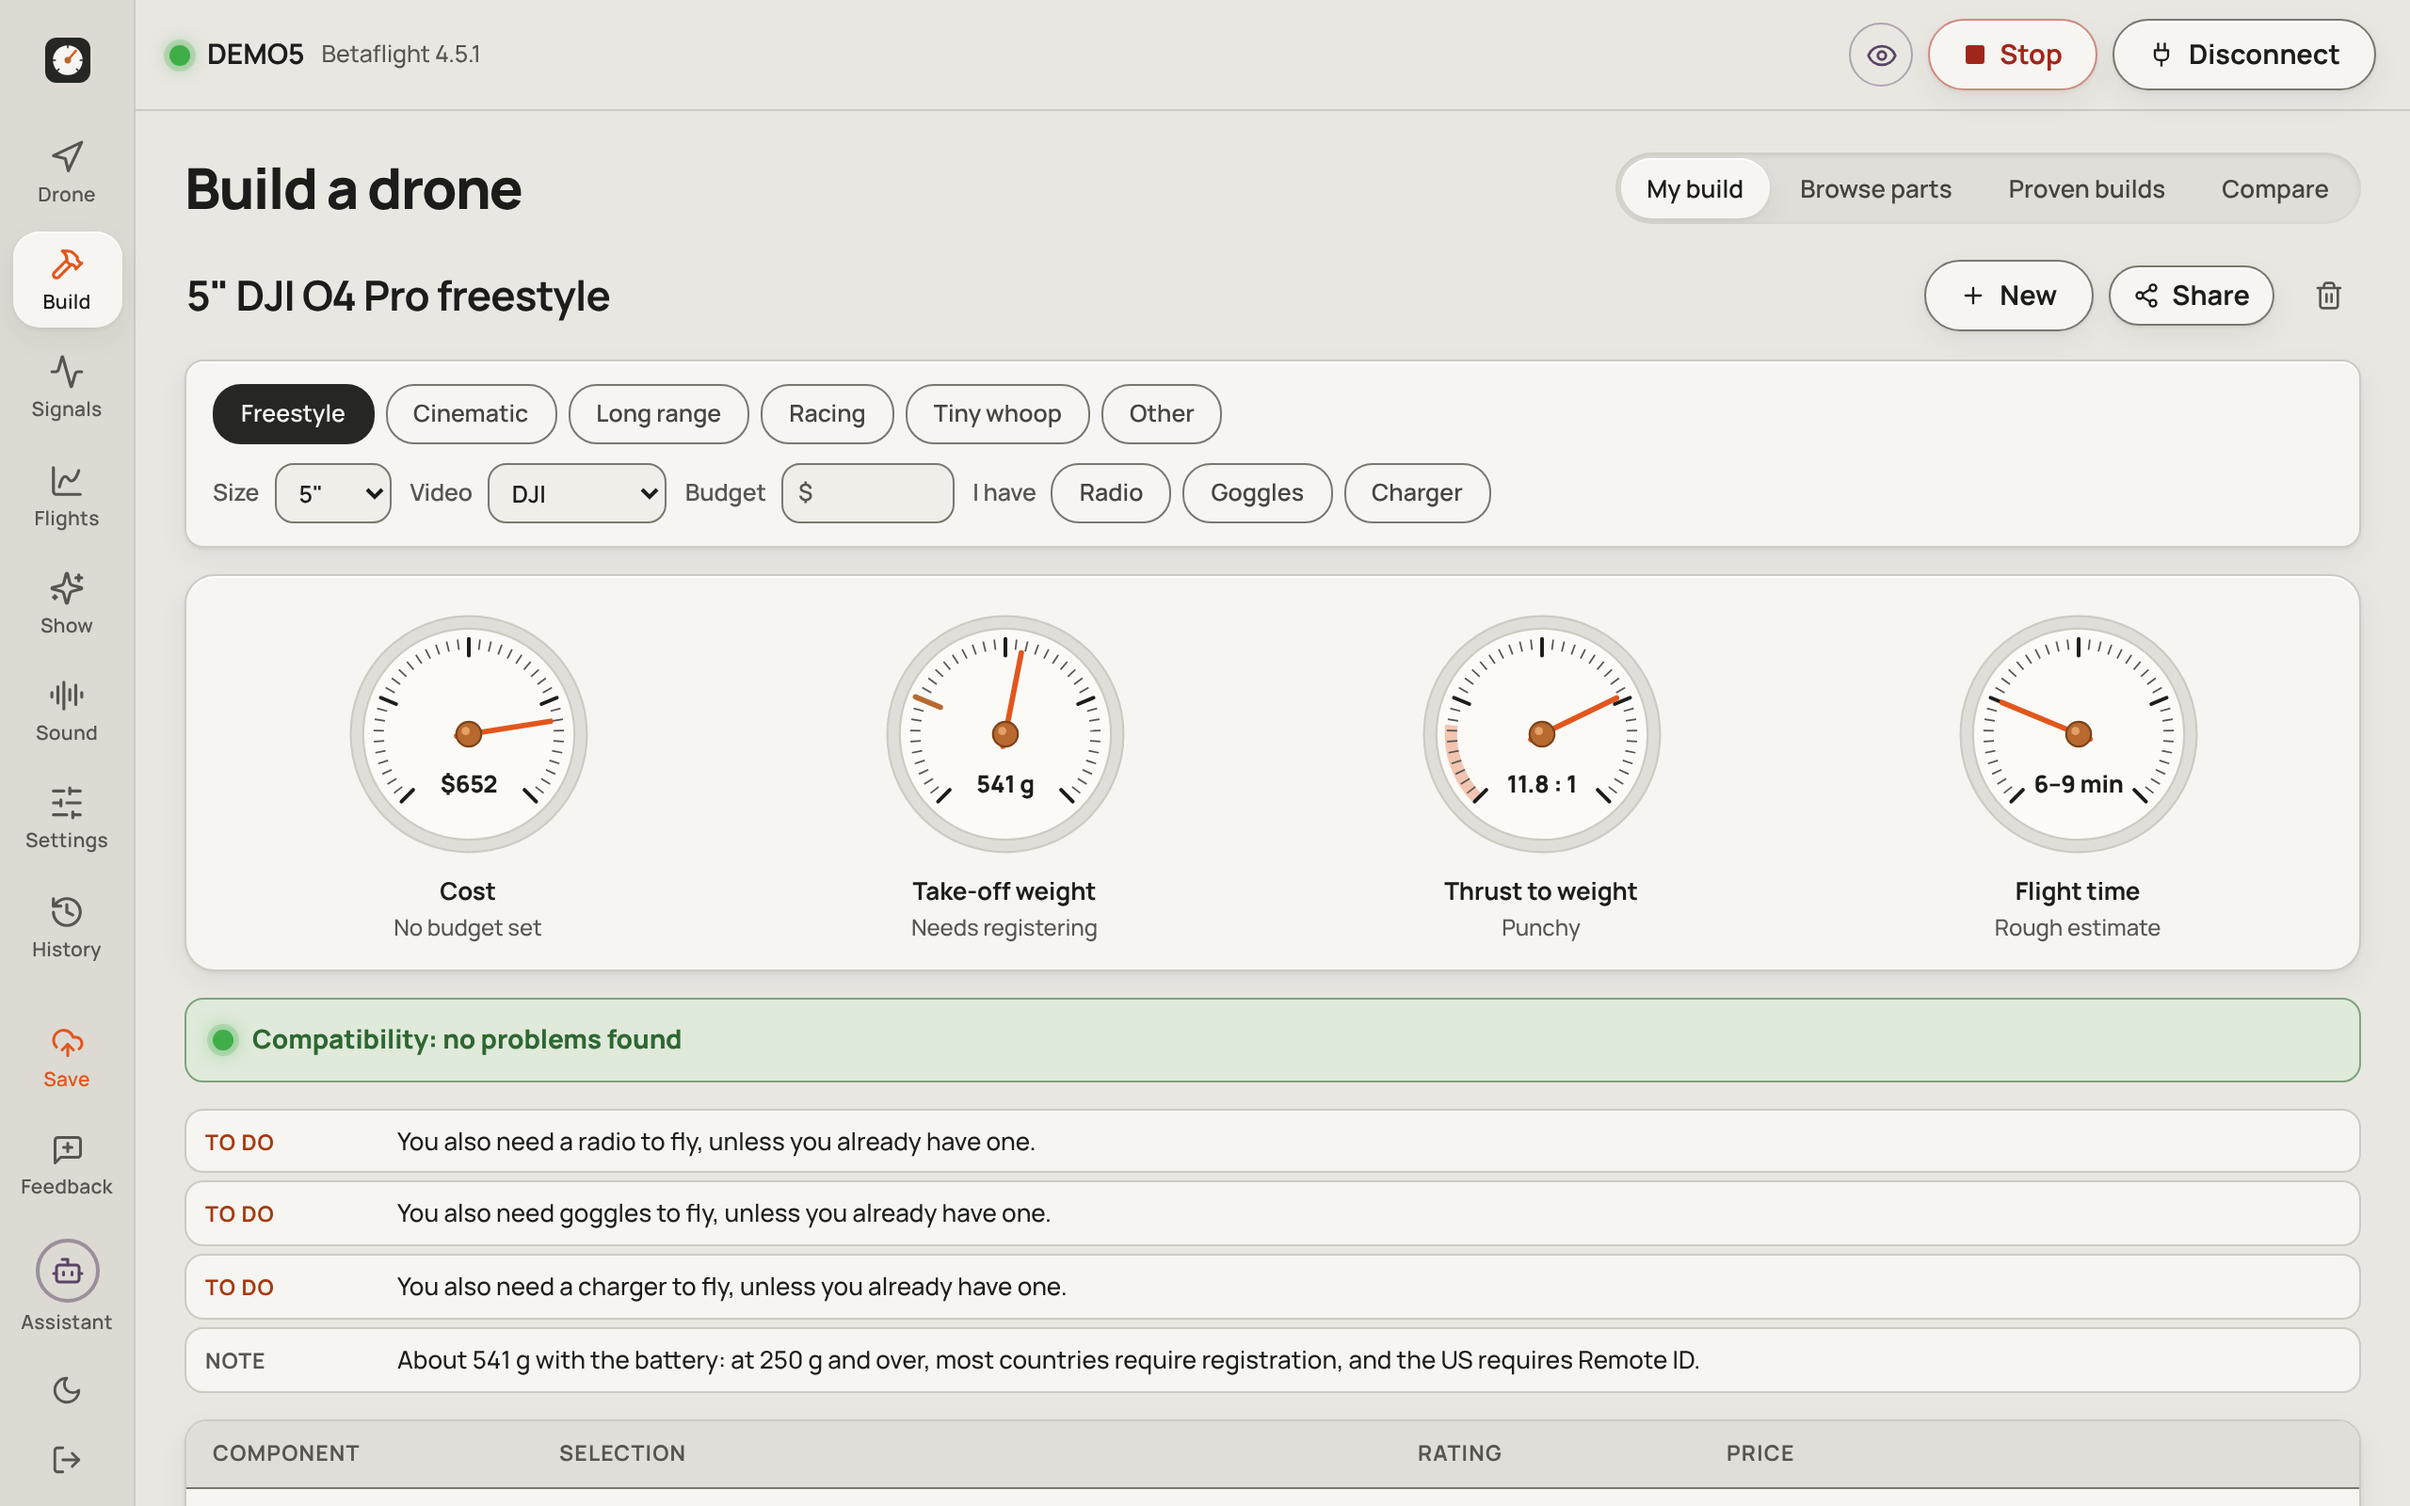
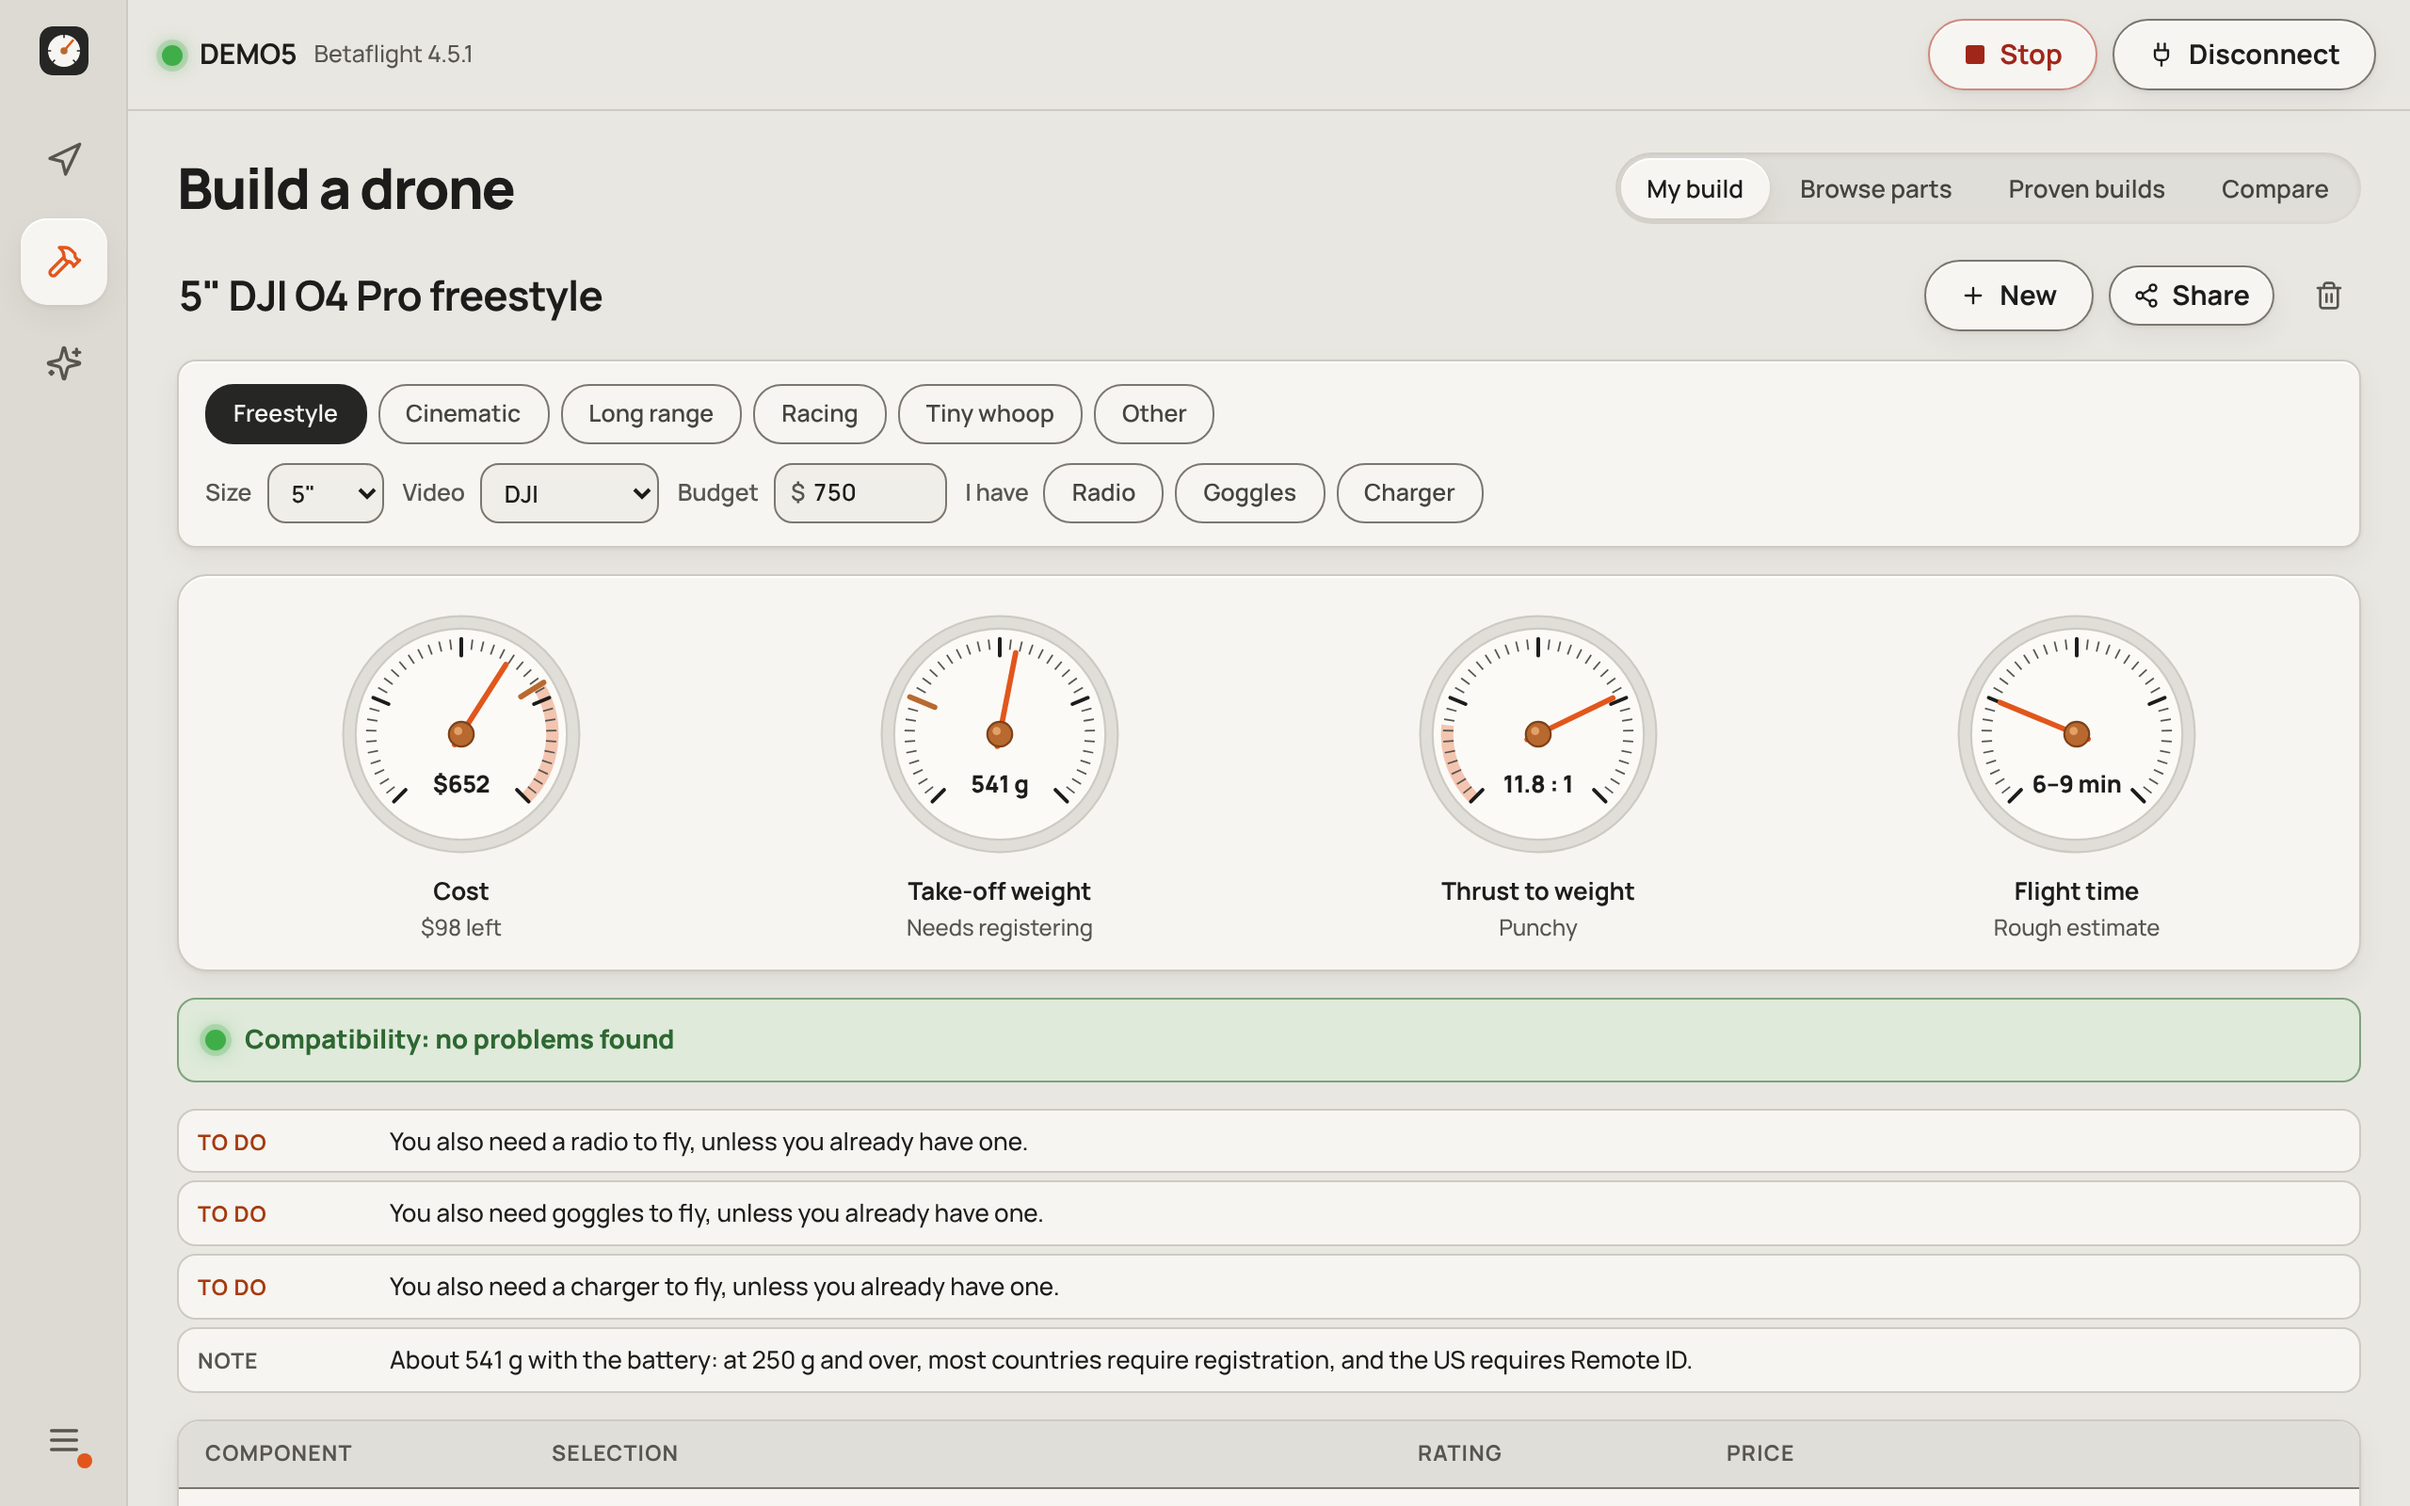
README: tools for your AI, on the subscription you already have; fresh screenshots
Claude-Session: https://claude.ai/code/session_01KyWd5sVygrXUgDor5wd4EB

diff --git a/drone-studio/scripts/readme-shots.ts b/drone-studio/scripts/readme-shots.ts
@@ -35,6 +35,7 @@ await page.locator(`[data-proposal="${proposal.proposal}"] button:has-text("Appr
 await claude.call('wait', { proposal: proposal.proposal, seconds: 30 });
 await page.waitForFunction(() => !document.querySelector('.dg-chip'), undefined, { timeout: 20_000 }).catch(() => {});
 await page.click('.lu-panel button[aria-label="Close"]').catch(() => {});
+await page.waitForTimeout(6000); // Let the confirmation notice fade.
 
 await page.click('[data-view="signals"]');
 await page.waitForTimeout(2500);
@@ -43,6 +44,8 @@ await shot('signals');
 await page.click('[data-section="build"]');
 await page.click('text=Start from this >> nth=1');
 await page.waitForSelector('.bd-row');
+await page.fill('input[aria-label="Budget in dollars"]', '750');
+await page.locator('input[aria-label="Budget in dollars"]').blur();
 await page.waitForTimeout(6000); // Let the toast go.
 await shot('build');
 await page.click('[aria-label="Swap the Motors"]');

diff --git a/README.md b/README.md
@@ -4,9 +4,11 @@
 
 # Lucidity
 
-**The drone bench your AI can use.**
+**Drone tools for your AI.**
 
-Plug in your drone. Ask Claude or ChatGPT. Approve the fix.
+Lucidity gives Claude, ChatGPT and other assistants the tools to read, test and fix your FPV drone.<br />It runs on the subscription you already have.
+
+Free and open source · No sign-up · No install · No API key
 
 <img src="docs/media/intro.png" alt="Lucidity: a quad that would not arm, now ready, with its receiver signal restored" width="820" />
 
@@ -16,15 +18,29 @@ Plug in your drone. Ask Claude or ChatGPT. Approve the fix.
 
 ## Say what’s wrong. See it fixed.
 
-Lucidity runs in your browser and connects to your drone over USB. Your assistant connects to Lucidity with one link. It reads the drone, finds the cause and proposes a change on the part it affects. Nothing is written until you approve it, and every change is read back from the drone to confirm it.
+Your assistant does the thinking. Lucidity does the hardware. It runs in your browser, connects to your drone over USB, and hands your assistant a set of tools: read every setting, run a check, propose a change. The change appears on the part it affects. Nothing is written until you approve it, and every change is read back from the drone to confirm it.
 
 Above, a new quad won’t arm. It hears nothing from its receiver: the receiver speaks CRSF, the flight controller expects SBUS. One approval, and it arms. The demo drone has the same problem, so you can try it yourself.
 
 <img src="docs/media/proposal.png" alt="The demo quad will not arm because it hears nothing from its receiver. Claude proposes switching the receiver protocol from SBUS to CRSF, with an Approve button beside it." width="820" />
 
-1. **Plug in.** Chrome or Edge, a USB cable. Nothing to install, no sign-up. Or open the demo drone.
-2. **Connect your AI.** Claude, ChatGPT, Claude Code, Cursor, VS Code or any agent. No API key.
+1. **Plug in.** Chrome or Edge and a USB cable. Or open the demo drone.
+2. **Connect your AI.** Add Lucidity as a connector in Claude, ChatGPT, Claude Code, Cursor or VS Code, with one link. Any other agent can set itself up from a skill file.
 3. **Approve.** You make the call. The drone changes only when you click.
+
+&nbsp;
+
+## Your AI, your subscription.
+
+Lucidity has no AI of its own and never asks for an API key. It works through the assistant you already use, on the plan you already pay for, with your history and preferences intact. Lucidity adds the parts an assistant can’t do alone: a USB connection to the drone, a map of everything the aircraft offers, and a screen where you see each step and approve it.
+
+| | |
+| --- | --- |
+| **Claude** | Settings → Connectors → Add custom connector |
+| **ChatGPT** | Settings → Connectors → Create |
+| **Claude Code** | `claude mcp add --transport http lucidity <your address>/mcp` |
+| **Cursor · VS Code** | One click from Lucidity’s menu |
+| **Any agent** | Point it at `<your address>/agent-onboarding/SKILL.md` |
 
 &nbsp;
 
@@ -67,7 +83,7 @@ Also: a history of every change and test, short-lived permissions for small chan
 
 ## You stay in control.
 
-Your assistant can read, test and propose. It can’t approve a change, confirm that props are off, or arm the drone. Motor spins and firmware flashes are always started by you. Everything an assistant does is recorded.
+Your assistant can read, test and propose. It can’t approve a change, confirm that props are off, or arm the drone. Motor spins and firmware flashes are always started by you. Everything an assistant does is recorded, and you can switch it to read-only, or off, at any time.
 
 &nbsp;
 
@@ -86,7 +102,7 @@ npm run build && npm run serve   # http://localhost:8787, data kept in memory
 npm test
 ```
 
-Assistants connect to `<your address>/mcp`.
+Assistants connect to `<your address>/mcp`, a standard [MCP](https://modelcontextprotocol.io) endpoint with sign-in.
 
 | Setting | What it does |
 | --- | --- |
